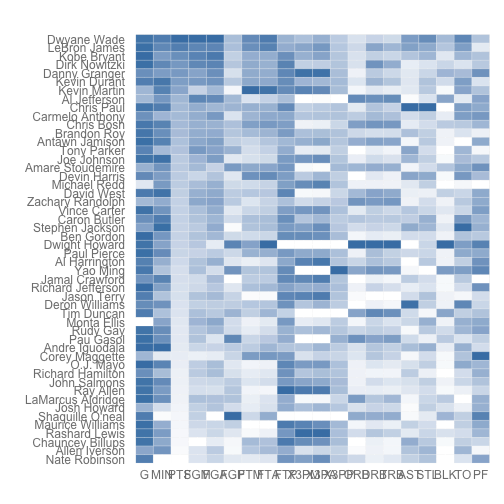
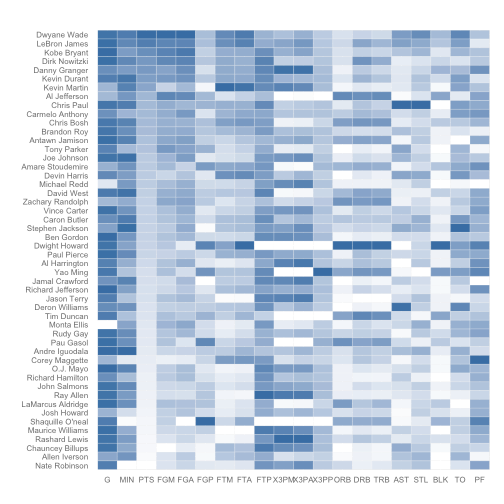
update post

diff --git a/_posts/r/2015-07-30-how-to-easily-make-beautiful-heatmaps-with-ezplot-part8.md b/_posts/r/2015-07-30-how-to-easily-make-beautiful-heatmaps-with-ezplot-part8.md
@@ -163,10 +163,10 @@ f("stats", "Name", "val_scaled", use_theme_gray=F, legend=F)
 
 We can also change the size of the tick text on both axes. 
 
-#### Change tick text to 15 (default is 12).
+#### Change tick text to 10 (default is 12).
 
 {% highlight r %}
-f("stats", "Name", "val_scaled", base_size=15, legend=F)
+f("stats", "Name", "val_scaled", base_size=10, legend=F)
 {% endhighlight %}
 
 ![center](/../figs/2015-07-30-how-to-easily-make-beautiful-heatmaps-with-ezplot-part8/unnamed-chunk-8-1.png) 
